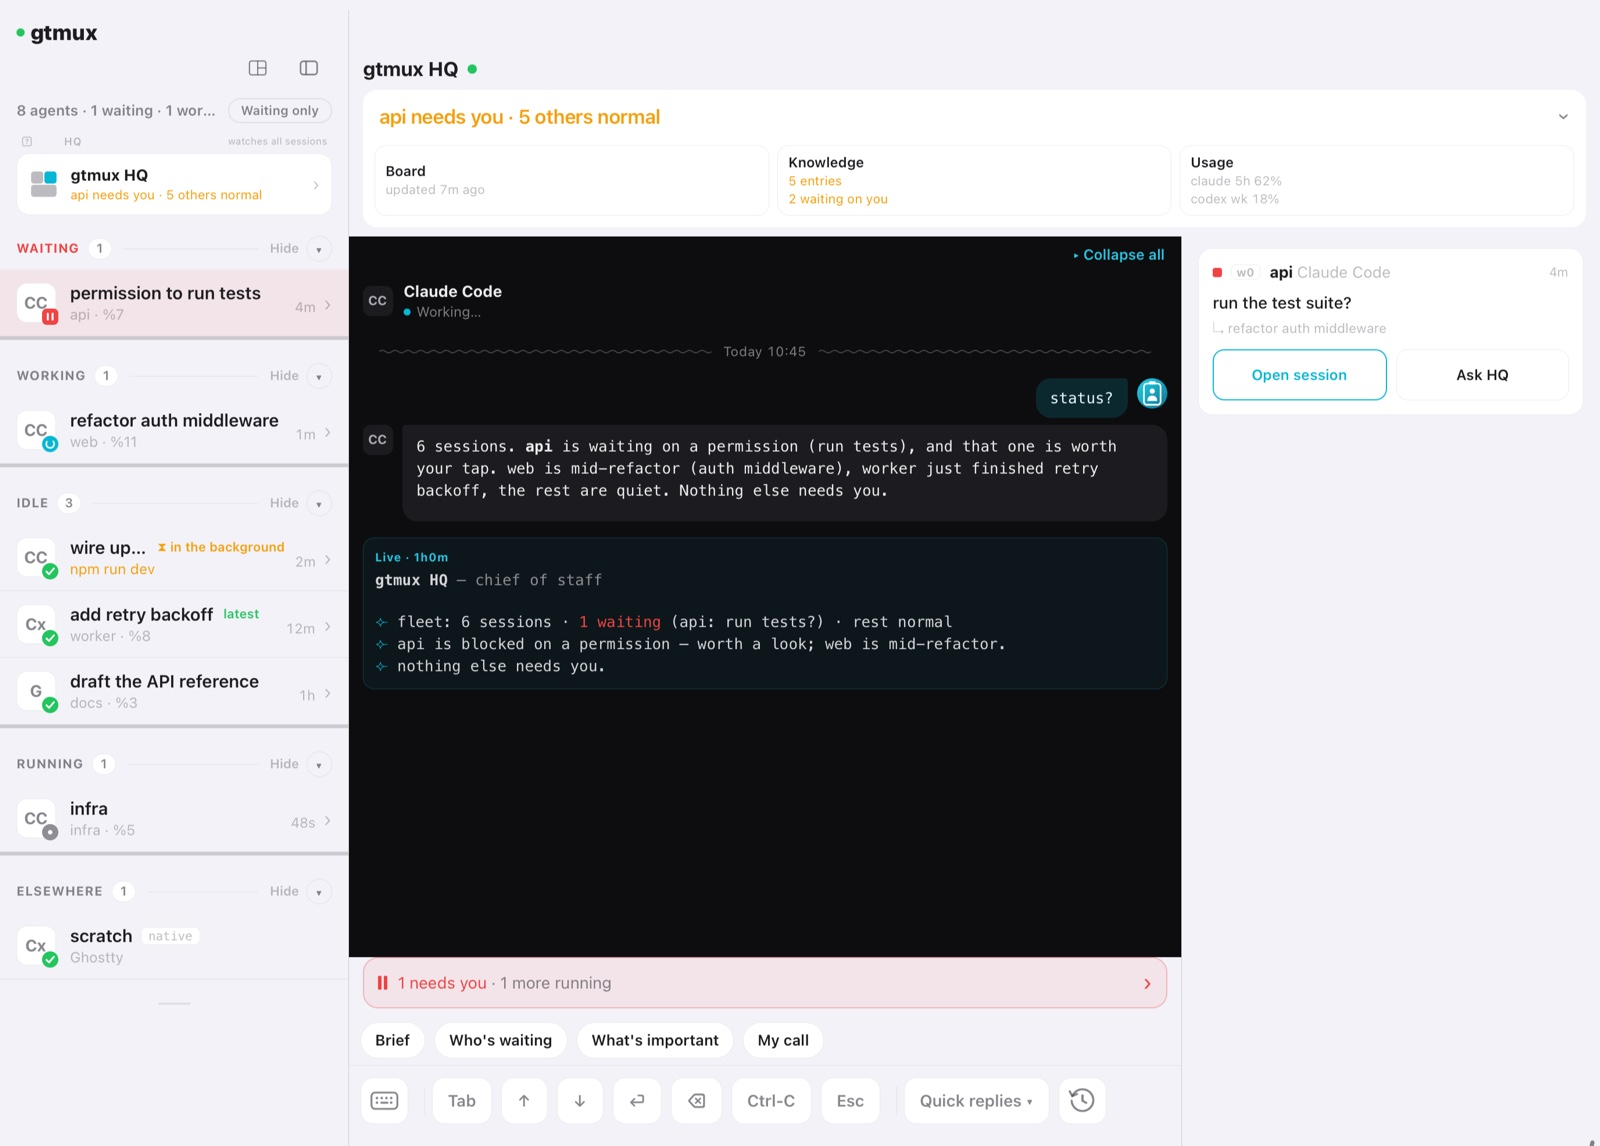
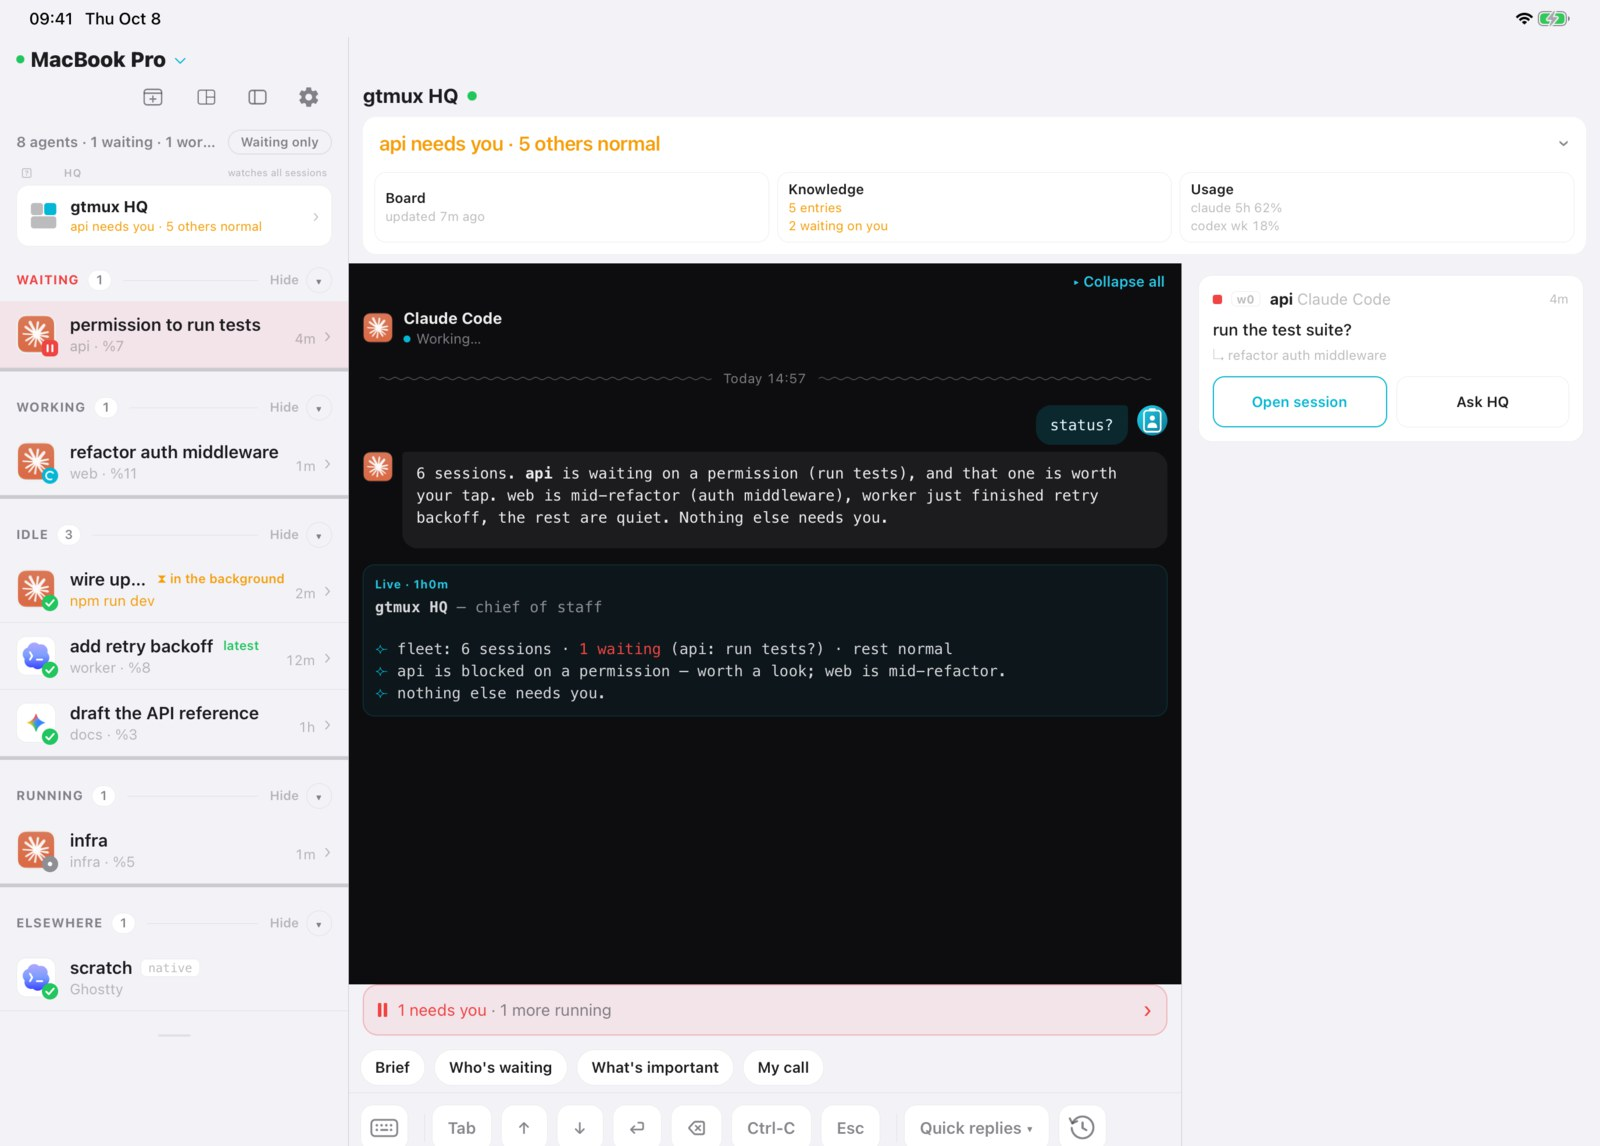
docs(guides): refresh bilingual screenshots with real agent marks

diff --git a/docs/guides/img/SOURCES.md b/docs/guides/img/SOURCES.md
@@ -1,18 +1,21 @@
 # Guide screenshots: where each one came from
 
-Raw frames are the App Store simulator captures of 2026-10-07 (`shots97/raw-{iphone,ipad}-{en,zh}/`,
-iPhone 1320×2868, iPad 2752×2064). To regenerate after a re-shoot, keep the file names:
+Raw frames are the website simulator captures of 2026-10-08 (`site1539/{en,zh,ipad-en,ipad-zh}/`,
+iPhone 1320×2868, iPad 2752×2064), made by `mobileapp/e2e/__tests__/site-shots.test.ts`
+with demo data and real agent marks. Both the app and the simulator system language
+match each set. To regenerate after a re-shoot, keep the file names:
 
-- iPhone: `sips -s format jpeg -s formatOptions 88 --resampleWidth 900 <raw>.png --out <name>.jpg`
-- iPad: crop the bottom 93 px home-indicator grip first (`sips -c 1971 2752 --cropOffset 0 0`), then the same command with `--resampleWidth 1600`
+- iPhone: `convert <raw>.png -resize 900x -quality 88 <name>.jpg`
+- iPad: crop the bottom 93 px (home-indicator grip and iPadOS resize corner), then resize:
+  `convert <raw>.png -crop 2752x1971+0+0 +repage -resize 1600x -quality 88 <name>.jpg`
 
 Each line is `<file> ← <raw frame>`; `<l>` is `en` or `zh`, and each language's file comes from that language's frame.
 
-- `watch-a-fleet-radar-<l>.jpg` ← `raw-iphone-<l>/01-radar.png`
-- `watch-a-fleet-panes-<l>.jpg` ← `raw-ipad-<l>/03-panes.png` (cropped)
-- `hq-supervisor-ipad-<l>.jpg` ← `raw-ipad-<l>/02-hq.png` (cropped)
-- `hq-supervisor-your-call-<l>.jpg` ← `raw-iphone-<l>/03-hq.png`
-- `hq-supervisor-knowledge-<l>.jpg` ← `raw-ipad-<l>/04-knowledge.png` (cropped)
-- `phone-and-web-approval-<l>.jpg` ← `raw-iphone-<l>/02-terminal-approval.png`
-- `phone-and-web-usage-<l>.jpg` ← `raw-iphone-<l>/05-usage.png`
-- `phone-and-web-servers-<l>.jpg` ← `raw-iphone-<l>/06-servers.png`
+- `watch-a-fleet-radar-<l>.jpg` ← `<l>/01-radar.png`
+- `watch-a-fleet-panes-<l>.jpg` ← `ipad-<l>/03-panes.png` (cropped)
+- `hq-supervisor-ipad-<l>.jpg` ← `ipad-<l>/02-hq.png` (cropped)
+- `hq-supervisor-your-call-<l>.jpg` ← `<l>/03-hq.png`
+- `hq-supervisor-knowledge-<l>.jpg` ← `ipad-<l>/04-knowledge.png` (cropped)
+- `phone-and-web-approval-<l>.jpg` ← `<l>/02-terminal-approval.png`
+- `phone-and-web-usage-<l>.jpg` ← `<l>/05-usage.png`
+- `phone-and-web-servers-<l>.jpg` ← `<l>/06-servers.png`
